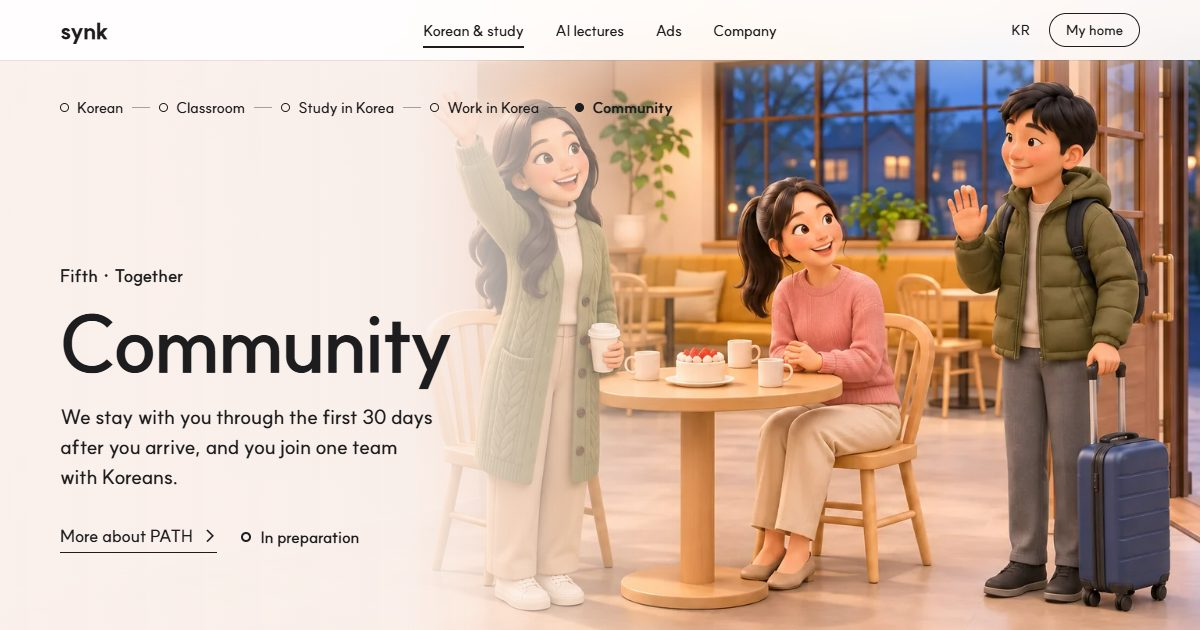
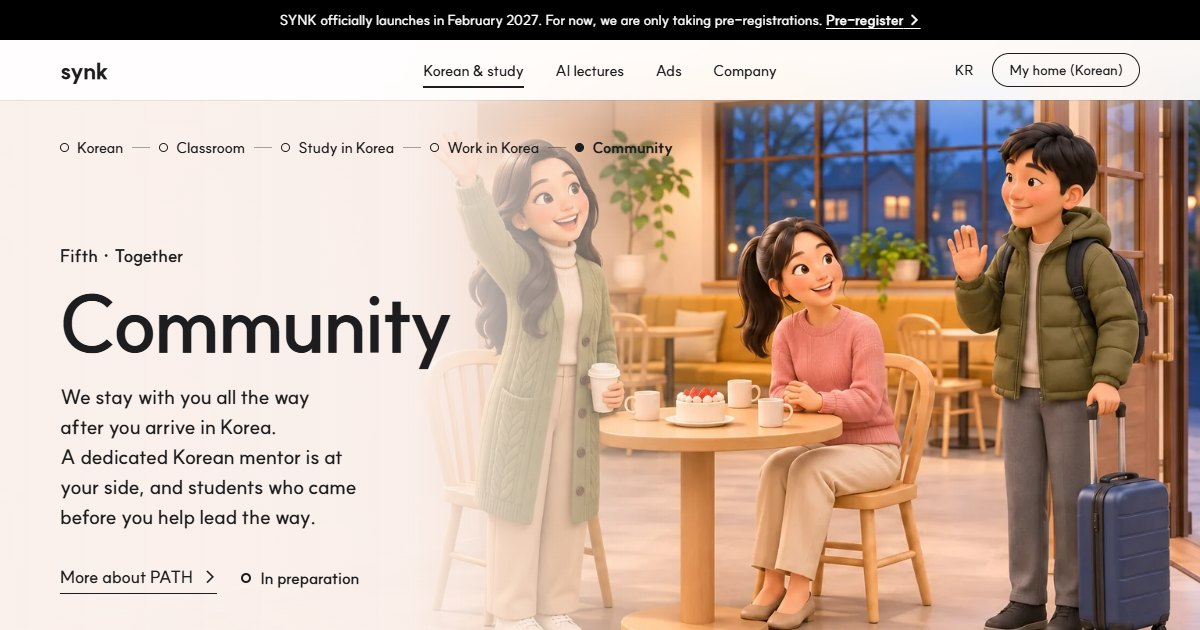
모임 쪽(한 · 영) 글을 11-27 사업계획서에 맞춤: 한국인 전담 멘토가 곁에 있고 먼저 온 선배가 모임을 함께 이끔, 입국 뒤에도 끝까지 챙김(핵심 셋 전담 멘토 · 먼저 온 선배 · 끝까지). 공유 그림 다시 찍음(검수 community-mentor-20261127 → b, 카본 3건 반영 → 0건)

diff --git a/en/community/index.html b/en/community/index.html
@@ -2,12 +2,12 @@
 <html lang="en"><head>
 <meta charset="utf-8">
 <meta name="viewport" content="width=device-width,initial-scale=1">
-<title>Community — We stay with you through the first 30 days after you arrive, and you join one team with Koreans · SYNK</title>
-<meta name="description" content="We stay with you through the first 30 days after you arrive, and you join one team with Koreans.">
+<title>Community — A dedicated Korean mentor and the students who came before you, with you all the way · SYNK</title>
+<meta name="description" content="We stay with you all the way after you arrive in Korea. A dedicated Korean mentor is at your side, and students who came before you help lead the way.">
 <link rel="canonical" href="https://synk.im/en/community/">
 <link rel="alternate" hreflang="ko" href="https://synk.im/community/"><link rel="alternate" hreflang="en" href="https://synk.im/en/community/"><link rel="alternate" hreflang="x-default" href="https://synk.im/community/">
-<meta property="og:type" content="website"><meta property="og:url" content="https://synk.im/en/community/"><meta property="og:title" content="Community — We stay with you through the first 30 days after you arrive, and you join one team with Koreans · SYNK"><meta property="og:description" content="We stay with you through the first 30 days after you arrive, and you join one team with Koreans.">
-<meta property="og:image" content="https://synk.im/assets/v11/og/community-en.jpg?v=d276d06e6f14"><meta property="og:image:width" content="1200"><meta property="og:image:height" content="630"><meta property="og:image:alt" content="First screen of the SYNK “Community” page — In a café in the evening, a student and a friend wave widely to a newly arrived junior. A 3D illustration."><meta name="twitter:card" content="summary_large_image">
+<meta property="og:type" content="website"><meta property="og:url" content="https://synk.im/en/community/"><meta property="og:title" content="Community — A dedicated Korean mentor and the students who came before you, with you all the way · SYNK"><meta property="og:description" content="We stay with you all the way after you arrive in Korea. A dedicated Korean mentor is at your side, and students who came before you help lead the way.">
+<meta property="og:image" content="https://synk.im/assets/v11/og/community-en.jpg?v=ee1be9517e72"><meta property="og:image:width" content="1200"><meta property="og:image:height" content="630"><meta property="og:image:alt" content="First screen of the SYNK “Community” page — In a café in the evening, a student and a friend wave widely to a newly arrived junior. A 3D illustration."><meta name="twitter:card" content="summary_large_image">
 <link rel="icon" type="image/png" sizes="16x16" href="/assets/favicon-synk-20260919-16.png"><link rel="icon" type="image/png" sizes="32x32" href="/assets/favicon-synk-20260919-32.png"><link rel="icon" type="image/png" sizes="48x48" href="/assets/favicon-synk-20260919-48.png">
 <link rel="preload" href="/assets/v11/synk-sans-v11.woff2" as="font" type="font/woff2" crossorigin>
 <style>@font-face{font-family:'SYNK Sans';src:url(/assets/v11/synk-sans-v11.woff2) format('woff2');font-weight:100 900;font-display:swap}</style>
@@ -33,21 +33,21 @@
     <div class="hero-say">
       <span class="hero-n">Fifth · Together</span>
       <h1>Community</h1>
-      <p class="hero-lead">We stay with you through the first 30 days after you arrive, and you join one team with Koreans.</p>
+      <p class="hero-lead">We stay with you all the way after you arrive in Korea. A dedicated Korean mentor is at your side, and students who came before you help lead the way.</p>
       <div class="hero-go"><span class="state soon">In preparation</span><a class="text-link" href="/en/path/">More about PATH <span class="arr" aria-hidden="true">→</span></a></div>
     </div>
   </header>
 
   <section class="edge" data-tone="light">
     <ul class="arms" aria-label="This page’s three strengths">
-      <li><b>30 days</b><span>after arrival, looked after to the end</span></li>
-      <li><b>One team</b><span>playing alongside Koreans</span></li>
-      <li><b>Full circle</b><span>you welcome the next person yourself</span></li>
+      <li><b>Dedicated mentor</b><span>a Korean mentor at your side</span></li>
+      <li><b>Students who came first</b><span>help lead the meetups</span></li>
+      <li><b>All the way</b><span>still with you after you arrive</span></li>
     </ul>
     <ol>
-      <li class="e first"><div class="e-say"><span class="e-no">Settle Together</span><h2 class="e-claim">We look after your<br><mark>first 30 days</mark> in Korea.</h2><p class="e-proof">Alien registration, a bank account, health insurance. A dedicated manager and a student who came before you are with you.</p><span class="state soon e-state">In preparation</span></div><figure class="e-fig viz cal" aria-label="The first 30 days after arrival"><b class="vnum"><span data-count="30">30</span><small>day<i class="pl">s</i></small></b><ol><li></li><li></li><li></li><li></li><li></li><li></li><li></li><li></li><li></li><li></li><li></li><li></li><li></li><li></li><li></li><li></li><li></li><li></li><li></li><li></li><li></li><li></li><li></li><li></li><li></li><li></li><li></li><li></li><li></li><li></li></ol></figure></li>
-      <li class="e"><div class="e-say"><span class="e-no">Season league</span><h2 class="e-claim">Play <mark>on one team</mark><br>with Koreans.</h2><p class="e-proof">A fortnightly season league, cooking and language exchange, evenings without alcohol.</p></div><figure class="e-fig phone"><img src="/assets/v11/d/settle-meet.webp" alt="Draft of the community screen in the Settle Together app. It shows a futsal team and the season standings." loading="lazy"><figcaption>This screen is in preparation</figcaption></figure></li>
-      <li class="e"><div class="e-say"><span class="e-no">Full circle</span><h2 class="e-claim">Measured by the share<br>of <mark>people who return.</mark></h2><p class="e-proof">Someone who has settled goes on to welcome the next person.</p></div><figure class="e-fig phone"><img src="/assets/v11/d/settle-todo.webp" alt="Draft of the tasks screen in the Settle Together app. It is day 7 of the first 30, and it shows applying for alien registration and opening a bank account." loading="lazy"><figcaption>This screen is in preparation</figcaption></figure></li>
+      <li class="e first"><div class="e-say"><span class="e-no">Dedicated mentor</span><h2 class="e-claim"><mark>A Korean mentor</mark><br>for your first 30 days.</h2><p class="e-proof">Housing, alien registration, a bank account, health insurance. A dedicated mentor who works with your university gets them done with you.</p><span class="state soon e-state">In preparation</span></div><figure class="e-fig viz cal" aria-label="The first 30 days after arrival"><b class="vnum"><span data-count="30">30</span><small>day<i class="pl">s</i></small></b><ol><li></li><li></li><li></li><li></li><li></li><li></li><li></li><li></li><li></li><li></li><li></li><li></li><li></li><li></li><li></li><li></li><li></li><li></li><li></li><li></li><li></li><li></li><li></li><li></li><li></li><li></li><li></li><li></li><li></li><li></li></ol></figure></li>
+      <li class="e"><div class="e-say"><span class="e-no">Regular meetups</span><h2 class="e-claim"><mark>Students who came first</mark><br>help lead the meetups.</h2><p class="e-proof">The mentor and international students who arrived earlier lead regular futsal, basketball and swimming meetups together. Once you settle in, it is your turn to lead the students who arrive after you.</p></div><figure class="e-fig phone"><img src="/assets/v11/d/settle-meet.webp" alt="Draft of the community screen in the Settle Together app. It shows a futsal team and the season standings." loading="lazy"><figcaption>This screen is in preparation</figcaption></figure></li>
+      <li class="e"><div class="e-say"><span class="e-no">All the way</span><h2 class="e-claim">Still with you<br><mark>long after you arrive.</mark></h2><p class="e-proof">We let you know before your period of stay or your TOPIK score expires.</p></div><figure class="e-fig phone"><img src="/assets/v11/d/settle-todo.webp" alt="Draft of the tasks screen in the Settle Together app. It is day 7 of the first 30, and it shows applying for alien registration and opening a bank account." loading="lazy"><figcaption>This screen is in preparation</figcaption></figure></li>
     </ol>
   </section>
 

diff --git a/community/index.html b/community/index.html
@@ -3,12 +3,12 @@
 <head>
 <meta charset="utf-8">
 <meta name="viewport" content="width=device-width,initial-scale=1">
-<title>모임 — 도착한 뒤 첫 30일을 끝까지 함께하고, 한국인과 한 팀이 됩니다 · SYNK</title>
-<meta name="description" content="도착한 뒤 첫 30일을 끝까지 함께하고, 한국인과 한 팀이 됩니다.">
+<title>모임 — 한국인 전담 멘토와 먼저 온 선배가 끝까지 함께합니다 · SYNK</title>
+<meta name="description" content="한국에 온 뒤에도 끝까지 챙깁니다. 한국인 전담 멘토가 곁에 있고, 먼저 온 선배가 함께 이끕니다.">
 <link rel="canonical" href="https://synk.im/community/">
 <link rel="alternate" hreflang="ko" href="https://synk.im/community/"><link rel="alternate" hreflang="en" href="https://synk.im/en/community/"><link rel="alternate" hreflang="x-default" href="https://synk.im/community/">
-<meta property="og:type" content="website"><meta property="og:url" content="https://synk.im/community/"><meta property="og:title" content="모임 — 도착한 뒤 첫 30일을 끝까지 함께하고, 한국인과 한 팀이 됩니다 · SYNK"><meta property="og:description" content="도착한 뒤 첫 30일을 끝까지 함께하고, 한국인과 한 팀이 됩니다.">
-<meta property="og:image" content="https://synk.im/assets/v11/og/community-ko.jpg?v=893ce1eb6c21"><meta property="og:image:width" content="1200"><meta property="og:image:height" content="630"><meta property="og:image:alt" content="SYNK 「모임」 쪽 첫 화면 — 저녁 카페에서 새로 온 후배에게 손을 크게 흔드는 학생과 친구. 3D로 그린 그림이다."><meta name="twitter:card" content="summary_large_image">
+<meta property="og:type" content="website"><meta property="og:url" content="https://synk.im/community/"><meta property="og:title" content="모임 — 한국인 전담 멘토와 먼저 온 선배가 끝까지 함께합니다 · SYNK"><meta property="og:description" content="한국에 온 뒤에도 끝까지 챙깁니다. 한국인 전담 멘토가 곁에 있고, 먼저 온 선배가 함께 이끕니다.">
+<meta property="og:image" content="https://synk.im/assets/v11/og/community-ko.jpg?v=5f8e10b86381"><meta property="og:image:width" content="1200"><meta property="og:image:height" content="630"><meta property="og:image:alt" content="SYNK 「모임」 쪽 첫 화면 — 저녁 카페에서 새로 온 후배에게 손을 크게 흔드는 학생과 친구. 3D로 그린 그림이다."><meta name="twitter:card" content="summary_large_image">
 <link rel="icon" type="image/png" sizes="16x16" href="/assets/favicon-synk-20260919-16.png"><link rel="icon" type="image/png" sizes="32x32" href="/assets/favicon-synk-20260919-32.png"><link rel="icon" type="image/png" sizes="48x48" href="/assets/favicon-synk-20260919-48.png">
 <link rel="preload" href="/assets/v11/synk-sans-v11.woff2" as="font" type="font/woff2" crossorigin>
 <style>@font-face{font-family:'SYNK Sans';src:url(/assets/v11/synk-sans-v11.woff2) format('woff2');font-weight:100 900;font-display:swap}</style>
@@ -33,21 +33,21 @@
     <div class="hero-say">
       <span class="hero-n">다섯째 · 함께</span>
       <h1>모임</h1>
-      <p class="hero-lead">도착한 뒤 첫 30일을 끝까지 함께하고, 한국인과 한 팀이 됩니다.</p>
+      <p class="hero-lead">한국에 온 뒤에도 끝까지 챙깁니다. 한국인 전담 멘토가 곁에 있고, 먼저 온 선배가 함께 이끕니다.</p>
       <div class="hero-go"><span class="state soon">준비 중</span><a class="text-link" href="/path/">PATH 자세히 <span class="arr" aria-hidden="true">→</span></a></div>
     </div>
   </header>
 
   <section class="edge" data-tone="light">
     <ul class="arms" aria-label="핵심 세 가지">
-      <li><b>30일</b><span>도착한 뒤 끝까지 챙깁니다</span></li>
-      <li><b>한 팀</b><span>한국인과 함께 뜁니다</span></li>
-      <li><b>한 바퀴</b><span>선배가 되어 다음 사람을 맞습니다</span></li>
+      <li><b>전담 멘토</b><span>한국인 멘토가 곁에 있습니다</span></li>
+      <li><b>먼저 온 선배</b><span>모임을 함께 이끕니다</span></li>
+      <li><b>끝까지</b><span>입국한 뒤에도 챙깁니다</span></li>
     </ul>
     <ol>
-      <li class="e first"><div class="e-say"><span class="e-no">정착 동행</span><h2 class="e-claim">도착한 뒤<br><mark>첫 30일</mark>을 챙깁니다.</h2><p class="e-proof">외국인등록, 계좌, 건강보험. 전담 매니저와 선배 유학생이 함께합니다.</p><span class="state soon e-state">준비 중</span></div><figure class="e-fig viz cal" aria-label="도착한 뒤 첫 30일"><b class="vnum"><span data-count="30">30</span><small>일</small></b><ol><li></li><li></li><li></li><li></li><li></li><li></li><li></li><li></li><li></li><li></li><li></li><li></li><li></li><li></li><li></li><li></li><li></li><li></li><li></li><li></li><li></li><li></li><li></li><li></li><li></li><li></li><li></li><li></li><li></li><li></li></ol></figure></li>
-      <li class="e"><div class="e-say"><span class="e-no">시즌 리그</span><h2 class="e-claim">한국인과<br><mark>한 팀으로</mark> 뜁니다.</h2><p class="e-proof">격주 시즌 리그, 요리와 언어 교환, 술 없는 저녁.</p></div><figure class="e-fig phone"><img src="/assets/v11/d/settle-meet.webp" alt="정착 동행 앱의 모임 화면 시안. 풋살 팀과 시즌 순위가 보인다." loading="lazy"><figcaption>준비 중인 화면입니다</figcaption></figure></li>
-      <li class="e"><div class="e-say"><span class="e-no">한 바퀴</span><h2 class="e-claim"><mark>다시 온 사람</mark>의<br>비율로 잽니다.</h2><p class="e-proof">자리를 잡은 사람은 선배가 되어 다음 한 사람을 맞습니다.</p></div><figure class="e-fig phone"><img src="/assets/v11/d/settle-todo.webp" alt="정착 동행 앱의 할 일 화면 시안. 첫 30일 가운데 7일째이고 외국인등록 신청과 계좌 개설이 보인다." loading="lazy"><figcaption>준비 중인 화면입니다</figcaption></figure></li>
+      <li class="e first"><div class="e-say"><span class="e-no">전담 멘토</span><h2 class="e-claim"><mark>한국인 멘토</mark>가<br>첫 30일을 함께합니다.</h2><p class="e-proof">집 계약, 외국인등록, 계좌, 건강보험. 대학과 함께 일하는 전담 멘토가 같이 끝냅니다.</p><span class="state soon e-state">준비 중</span></div><figure class="e-fig viz cal" aria-label="도착한 뒤 첫 30일"><b class="vnum"><span data-count="30">30</span><small>일</small></b><ol><li></li><li></li><li></li><li></li><li></li><li></li><li></li><li></li><li></li><li></li><li></li><li></li><li></li><li></li><li></li><li></li><li></li><li></li><li></li><li></li><li></li><li></li><li></li><li></li><li></li><li></li><li></li><li></li><li></li><li></li></ol></figure></li>
+      <li class="e"><div class="e-say"><span class="e-no">정기 모임</span><h2 class="e-claim"><mark>먼저 온 선배</mark>가<br>모임을 함께 이끕니다.</h2><p class="e-proof">풋살, 농구, 수영 정기 모임을 멘토와 선배 유학생이 같이 이끕니다. 자리를 잡으면 다음 기수에게는 내가 선배가 됩니다.</p></div><figure class="e-fig phone"><img src="/assets/v11/d/settle-meet.webp" alt="정착 동행 앱의 모임 화면 시안. 풋살 팀과 시즌 순위가 보인다." loading="lazy"><figcaption>준비 중인 화면입니다</figcaption></figure></li>
+      <li class="e"><div class="e-say"><span class="e-no">끝까지</span><h2 class="e-claim">입국한 뒤에도<br><mark>끝까지</mark> 챙깁니다.</h2><p class="e-proof">체류 기간이나 TOPIK 성적의 유효기간이 끝나기 전에 먼저 알려 드립니다.</p></div><figure class="e-fig phone"><img src="/assets/v11/d/settle-todo.webp" alt="정착 동행 앱의 할 일 화면 시안. 첫 30일 가운데 7일째이고 외국인등록 신청과 계좌 개설이 보인다." loading="lazy"><figcaption>준비 중인 화면입니다</figcaption></figure></li>
     </ol>
   </section>
 
